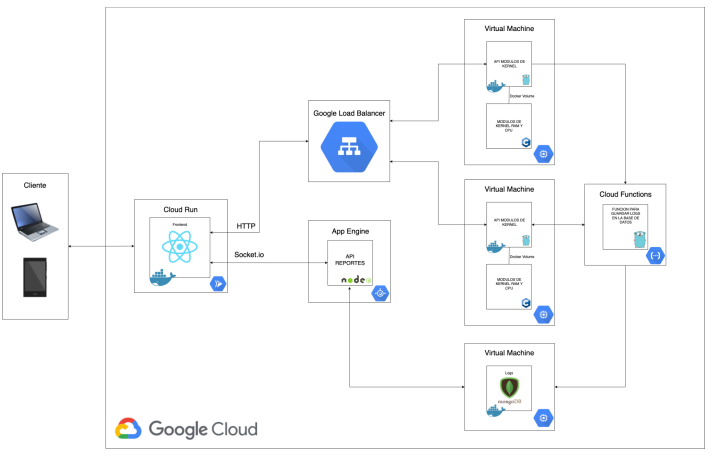
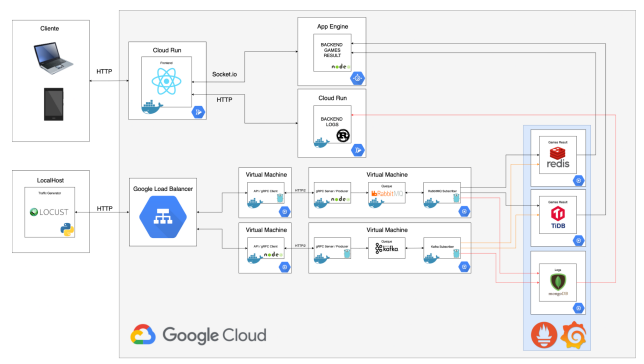
Manual Tecnico

diff --git a/ManualTecnico.md b/ManualTecnico.md
@@ -1,0 +1,59 @@
+# Manual Técnico
+---
+## Arquitectura Implementada
+---
+<p align="center"> 
+  <img align="center" width="700px" src="imgs/arq.png" />
+</p>
+
+---
+
+## Bases de datos
+---
+>> tidb: <p align="center"> 
+  <img align="center" width="200px" height = "200px" src="imgs/LOG.png" />
+</p>
+
+>>Mongodb:<p align="center"> 
+  <img align="center" width="200px" height = "200px"  src="imgs/Resultado.png" />
+</p>
+
+---
+
+## Preguntas de Reflexión:
+>>¿Qué sistema de mensajería es más rápido?: 
+
+Tras extensas pruebas de envio de datos masivos mediante locust, se llego a la conclusión que kafka es el mas eficiente enviando datos, pues permite procesar un mayor volumen de mensajes consumiendo menos recursos.
+
+>>¿Cuáles son las ventajas y desventajas de cada sistema?: 
+- Ventajas de kafka:
+    - Tiene una buena escalabilidad
+    - Tolerancia a los fallos
+    - Capacidad para procesar en tiempo real
+    - Enfocado a proyectos de Big Data
+
+- Desventajas de kafka:
+    - Dependencia con apache zookeeper
+    - Enrrutamiento de mensajes
+    - Carece de componentes de monitorizacion
+
+- Ventajas de RabbitMQ:
+    - Adecuado para muchos protocolos de mensajería
+    - Interfaz moderna e intuitiva
+    - Flexibilidad y plugins disponibles
+    - Herramientas de desarrollo
+
+- Desventajas de RabbitMQ:
+    - No es transaccional por defecto
+
+>>¿Cuál es el mejor sistema?:
+
+Depende de los recursos del equipo a utiliza y de la necesidad del usuario, ya que si se mandan datos por millones es mas eficiente kafka aunque no tiene un sistema de monitoreo.
+
+>>¿Cuál de las dos bases de datos (Redis y TIDB) se
+desempeña mejor y por qué?:
+
+tidb se desempeña mejor ya que es sencillo de implementar y utilizar ya que tiene sintaxis SQL.
+
+## Descripcion de Herramientas:
+

diff --git a/README.md b/README.md
@@ -15,7 +15,7 @@
 | Nombre                             | Carné     |
 |------------------------------------|-----------|
 | Juan Antonio Pineda Espino              | 201404405 |
-| Mechas :v | 222222|
+| Diego Manuel Morales Rabanales | 201503958|
 | Daniel Eduardo Lopez Alvarez | 201700390 |
 
 - ### [Manual Tecnico](ManualTecnico.md)
